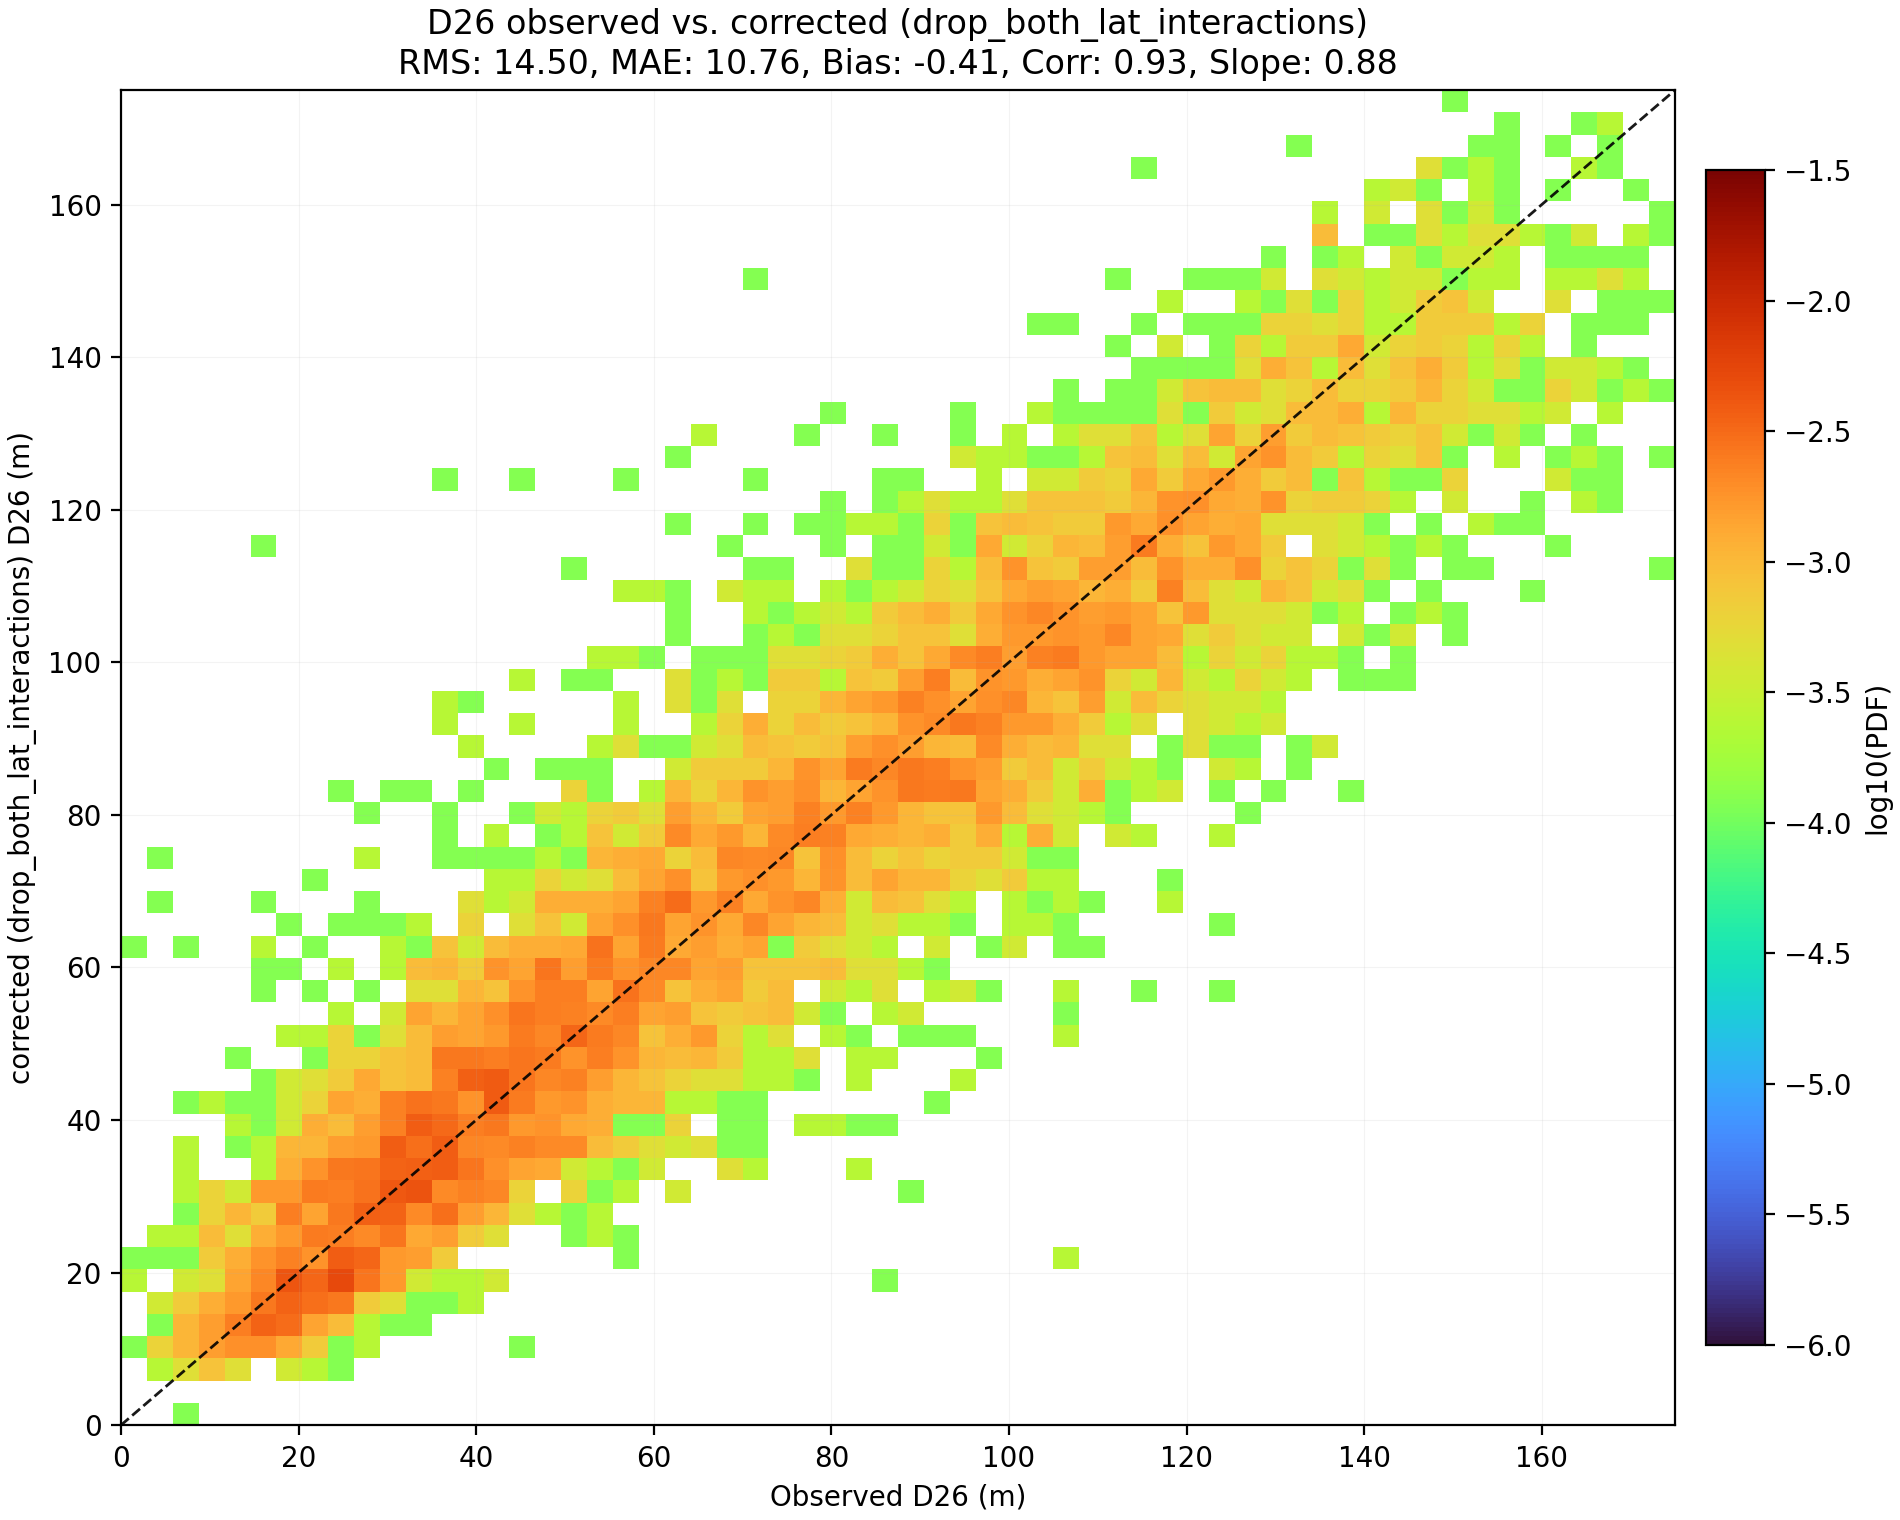
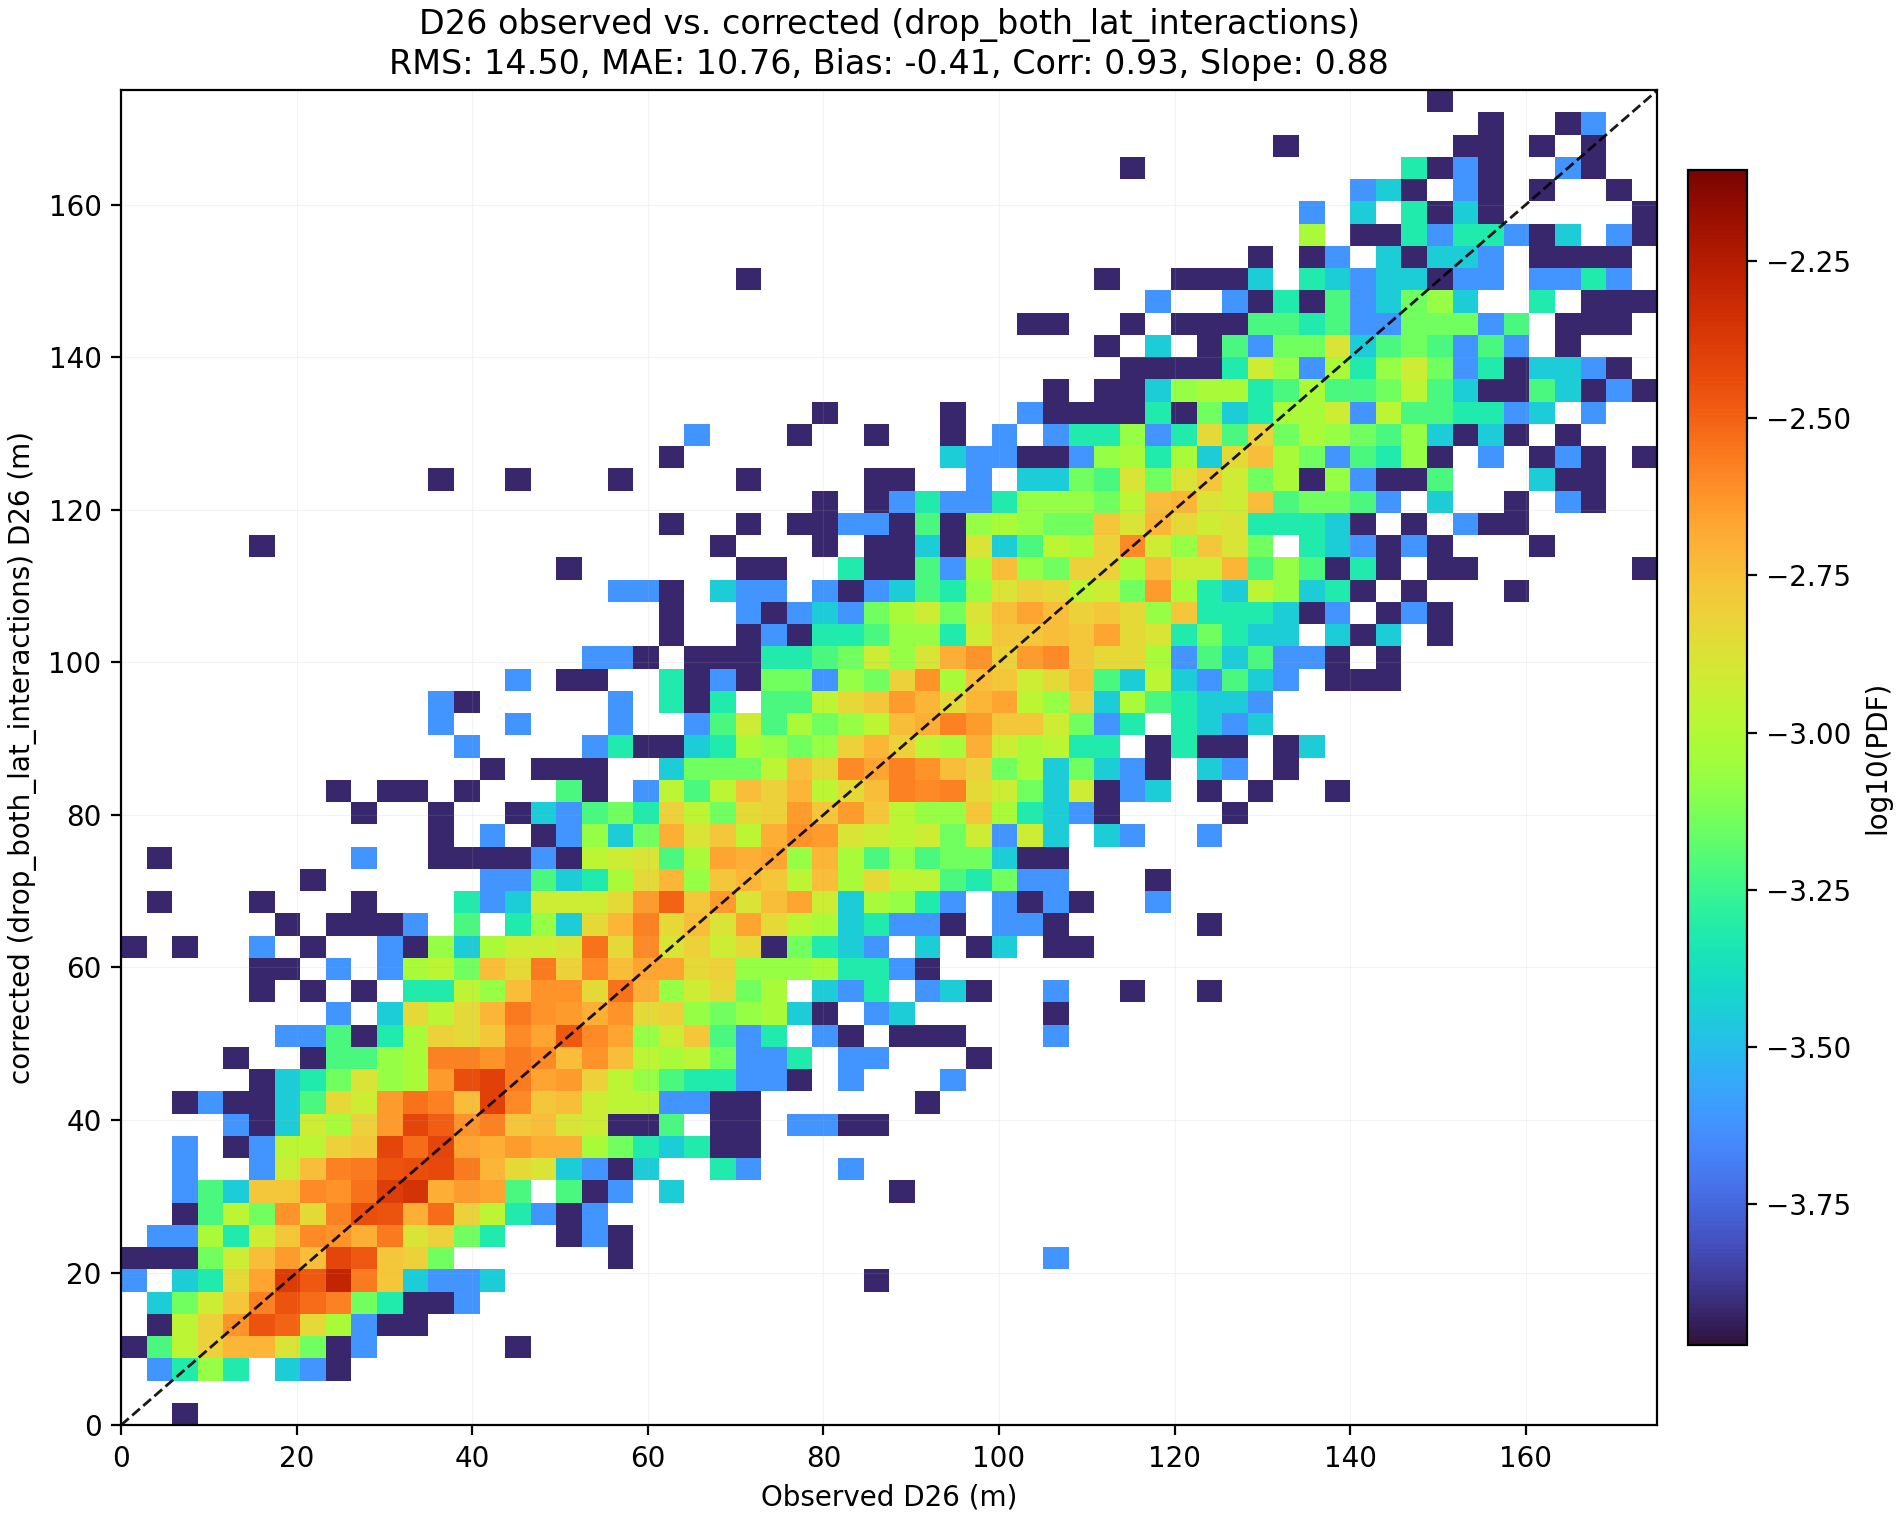
Use adaptive shared color limits in density scatter diagnostics
Replace the hard-coded log10(PDF) color range (-6.0, -1.5) with limits
derived from occupied bins, shared between raw and corrected panels so
they stay directly comparable. Regenerate affected figures and record
the reduced-RTOFS calendar caveat in the context and handoff notes.

diff --git a/OHC/build_hhp_density_scatter_diagnostics.py b/OHC/build_hhp_density_scatter_diagnostics.py
@@ -257,12 +257,55 @@ def _density_image(x: np.ndarray, y: np.ndarray, *, xlim: tuple[float, float], y
     return log_pdf.T, x_edges, y_edges
 
 
-def _plot_density_panel(ax, x: np.ndarray, y: np.ndarray, *, title: str, xlabel: str, ylabel: str, bins: int = PDF_BINS):
-    xlim, ylim = _common_axis_limits(x, y, y)
+def _density_color_limits(*imgs: np.ndarray) -> tuple[float, float]:
+    occupied = []
+    for img in imgs:
+        vals = img[np.isfinite(img)]
+        if vals.size:
+            occupied.append(vals)
+    if not occupied:
+        return -1.0, 0.0
+    merged = np.concatenate(occupied)
+    vmin = float(np.nanmin(merged))
+    vmax = float(np.nanmax(merged))
+    if not np.isfinite(vmin) or not np.isfinite(vmax):
+        return -1.0, 0.0
+    if np.isclose(vmin, vmax):
+        pad = 0.25
+        return vmin - pad, vmax + pad
+    pad = 0.03 * (vmax - vmin)
+    return vmin - pad, vmax + pad
+
+
+def _plot_density_panel(
+    ax,
+    x: np.ndarray,
+    y: np.ndarray,
+    *,
+    title: str,
+    xlabel: str,
+    ylabel: str,
+    bins: int = PDF_BINS,
+    xlim: tuple[float, float] | None = None,
+    ylim: tuple[float, float] | None = None,
+    color_limits: tuple[float, float] | None = None,
+):
+    if xlim is None or ylim is None:
+        xlim, ylim = _common_axis_limits(x, y, y)
     img, x_edges, y_edges = _density_image(x, y, xlim=xlim, ylim=ylim, bins=bins)
     cmap = plt.get_cmap("turbo").copy()
     cmap.set_bad("white")
-    mesh = ax.pcolormesh(x_edges, y_edges, img, shading="auto", cmap=cmap, vmin=-6.0, vmax=-1.5)
+    if color_limits is None:
+        color_limits = _density_color_limits(img)
+    mesh = ax.pcolormesh(
+        x_edges,
+        y_edges,
+        img,
+        shading="auto",
+        cmap=cmap,
+        vmin=color_limits[0],
+        vmax=color_limits[1],
+    )
     ax.plot(xlim, xlim, linestyle="--", color="black", linewidth=1.0, alpha=0.9)
     ax.set_xlim(xlim)
     ax.set_ylim(ylim)
@@ -274,7 +317,7 @@ def _plot_density_panel(ax, x: np.ndarray, y: np.ndarray, *, title: str, xlabel:
         f"Corr={m['corr']:.2f}, Slope={m['slope']:.2f}, n={m['rows']}"
     )
     ax.grid(True, alpha=0.15, linewidth=0.4)
-    return mesh, m
+    return mesh, m, img
 
 
 def _plot_global_density(target: TargetConfig, df: pd.DataFrame, out_path: Path, metrics_rows: list[dict]) -> None:
@@ -282,18 +325,28 @@ def _plot_global_density(target: TargetConfig, df: pd.DataFrame, out_path: Path,
     obs = df[target.obs_col].to_numpy(float)
     raw = df[target.raw_col].to_numpy(float)
     corr = df[target.corrected_col].to_numpy(float)
+    xlim, ylim = _common_axis_limits(obs, raw, corr)
+    raw_img, _, _ = _density_image(obs, raw, xlim=xlim, ylim=ylim)
+    corr_img, _, _ = _density_image(obs, corr, xlim=xlim, ylim=ylim)
+    color_limits = _density_color_limits(raw_img, corr_img)
 
-    mesh, m_raw = _plot_density_panel(
+    mesh, m_raw, _ = _plot_density_panel(
         axes[0], obs, raw,
         title=f"{target.short_label}: observed vs raw RTOFS",
         xlabel=f"Observed {target.short_label} ({target.units})",
         ylabel=f"Raw RTOFS {target.short_label} ({target.units})",
+        xlim=xlim,
+        ylim=ylim,
+        color_limits=color_limits,
     )
-    _, m_corr = _plot_density_panel(
+    _, m_corr, _ = _plot_density_panel(
         axes[1], obs, corr,
         title=f"{target.short_label}: observed vs corrected ({target.corrected_label})",
         xlabel=f"Observed {target.short_label} ({target.units})",
         ylabel=f"Corrected {target.short_label} ({target.units})",
+        xlim=xlim,
+        ylim=ylim,
+        color_limits=color_limits,
     )
     cbar = fig.colorbar(mesh, ax=axes.ravel().tolist(), shrink=0.92, pad=0.02)
     cbar.set_label("log10(PDF)")
@@ -319,11 +372,20 @@ def _plot_presentation_density(
     fig, ax = plt.subplots(1, 1, figsize=(9.5, 7.6), constrained_layout=True)
     obs = df[target.obs_col].to_numpy(float)
     pred = df[y_col].to_numpy(float)
-    mesh, m = _plot_density_panel(
+    raw = df[target.raw_col].to_numpy(float)
+    corr = df[target.corrected_col].to_numpy(float)
+    xlim, ylim = _common_axis_limits(obs, raw, corr)
+    raw_img, _, _ = _density_image(obs, raw, xlim=xlim, ylim=ylim)
+    corr_img, _, _ = _density_image(obs, corr, xlim=xlim, ylim=ylim)
+    color_limits = _density_color_limits(raw_img, corr_img)
+    mesh, m, _ = _plot_density_panel(
         ax, obs, pred,
         title="",
         xlabel=f"Observed {target.short_label} ({target.units})",
         ylabel=f"{label} {target.short_label} ({target.units})",
+        xlim=xlim,
+        ylim=ylim,
+        color_limits=color_limits,
     )
     ax.set_title(
         f"{target.short_label} observed vs. {label}\n"
@@ -354,17 +416,27 @@ def _plot_region_density(target: TargetConfig, df: pd.DataFrame, out_path: Path,
         raw = sub[target.raw_col].to_numpy(float)
         corr = sub[target.corrected_col].to_numpy(float)
         region_name = REGION_DISPLAY[region]
-        mesh, m_raw = _plot_density_panel(
+        xlim, ylim = _common_axis_limits(obs, raw, corr)
+        raw_img, _, _ = _density_image(obs, raw, xlim=xlim, ylim=ylim)
+        corr_img, _, _ = _density_image(obs, corr, xlim=xlim, ylim=ylim)
+        color_limits = _density_color_limits(raw_img, corr_img)
+        mesh, m_raw, _ = _plot_density_panel(
             axes[i, 0], obs, raw,
             title=f"{region_name}: observed vs raw",
             xlabel=f"Observed {target.short_label} ({target.units})",
             ylabel=f"Raw RTOFS {target.short_label} ({target.units})",
+            xlim=xlim,
+            ylim=ylim,
+            color_limits=color_limits,
         )
-        _, m_corr = _plot_density_panel(
+        _, m_corr, _ = _plot_density_panel(
             axes[i, 1], obs, corr,
             title=f"{region_name}: observed vs corrected",
             xlabel=f"Observed {target.short_label} ({target.units})",
             ylabel=f"Corrected {target.short_label} ({target.units})",
+            xlim=xlim,
+            ylim=ylim,
+            color_limits=color_limits,
         )
         for model_name, m in [("raw_rtofs", m_raw), (target.corrected_label, m_corr)]:
             row = {"target": target.name, "scope": "region", "subset": region, "model": model_name}
@@ -466,17 +538,27 @@ def _plot_top_patch_density(target: TargetConfig, df: pd.DataFrame, patch_df: pd
         corr = g[target.corrected_col].to_numpy(float)
         region_name = REGION_DISPLAY[region]
         patch_title = f"{best['patch_label']}, n={int(best['rows'])}, dates={int(best['dates'])}"
-        mesh, m_raw = _plot_density_panel(
+        xlim, ylim = _common_axis_limits(obs, raw, corr)
+        raw_img, _, _ = _density_image(obs, raw, xlim=xlim, ylim=ylim)
+        corr_img, _, _ = _density_image(obs, corr, xlim=xlim, ylim=ylim)
+        color_limits = _density_color_limits(raw_img, corr_img)
+        mesh, m_raw, _ = _plot_density_panel(
             axes[i, 0], obs, raw,
             title=f"{region_name} top patch: raw\n{patch_title}",
             xlabel=f"Observed {target.short_label} ({target.units})",
             ylabel=f"Raw RTOFS {target.short_label} ({target.units})",
+            xlim=xlim,
+            ylim=ylim,
+            color_limits=color_limits,
         )
-        _, m_corr = _plot_density_panel(
+        _, m_corr, _ = _plot_density_panel(
             axes[i, 1], obs, corr,
             title=f"{region_name} top patch: corrected\n{patch_title}",
             xlabel=f"Observed {target.short_label} ({target.units})",
             ylabel=f"Corrected {target.short_label} ({target.units})",
+            xlim=xlim,
+            ylim=ylim,
+            color_limits=color_limits,
         )
         for model_name, m in [("raw_rtofs", m_raw), (target.corrected_label, m_corr)]:
             row = {"target": target.name, "scope": "top_patch", "subset": best["patch_label"], "macro_region": region, "model": model_name}

diff --git a/OHC/context.md b/OHC/context.md
@@ -86,6 +86,31 @@ The global-cache path now used by the archive helpers is:
 
 - `RTOFS_GLOBAL_CACHE_DIR = /data/suramya/rtofs_global_cache`
 
+### 3.3 Current calendar caveat for the 2024-2025 ML base table
+
+This is important enough to treat as durable context:
+
+- the upstream Argo-derived global tables already have broad/full calendar coverage for 2024 and 2025,
+- but the reduced daily global RTOFS TCHP/D26 field cache currently does not.
+
+As a result, the current point-collocation table is calendar-limited by the
+RTOFS reduced-field inventory, not by Argo availability.
+
+Confirmed state at the time of this note:
+
+- Argo 2024 cache spans `20240101 -> 20241231`
+- Argo 2025 cache spans `20250101 -> 20251231`
+- current reduced global RTOFS field coverage starts at `20240131`
+
+Working interpretation:
+
+- for the public global archive path currently used by `ml/sources/rtofs_global_source.py`,
+  `2024-01-31` is the practical starting date for backfill in this workflow
+  unless a new source or mirror is introduced.
+- missing month blocks in gallery heatmaps are therefore a base-table coverage issue,
+  and downstream feature sheets should not be over-interpreted as full-calendar
+  seasonal diagnostics until the reduced RTOFS field cache is backfilled.
+
 ## 4. Training/evaluation tables
 
 Current main table family:

diff --git a/OHC/NEXT_SESSION_HANDOFF.md b/OHC/NEXT_SESSION_HANDOFF.md
@@ -86,6 +86,26 @@ New presentation-style outputs:
 
 These are observed-vs-model 2D histograms with color = `log10(PDF)`.
 
+### 2.4 Base-calendar caveat now confirmed
+
+The current 2024-2025 collocation table is not limited by Argo calendar coverage.
+It is limited by the reduced daily global RTOFS TCHP/D26 field cache.
+
+Confirmed inventory:
+
+- Argo 2024 cache already spans the full year
+- Argo 2025 cache already spans the full year
+- reduced global RTOFS daily fields currently start at `20240131`
+
+So for current backfill work, treat `2024-01-31` as the practical public-archive
+start date in this workflow.
+
+Consequence:
+
+- white month blocks in the feature-gallery heatmaps mainly reflect missing
+  base collocation rows from incomplete reduced RTOFS field coverage
+- steric / Brunt-Vaisala profile-feature sparsity sits on top of that separate issue
+
 ## 3. Immediate next tasks
 
 ### 3.1 Highest-priority plotting follow-up
